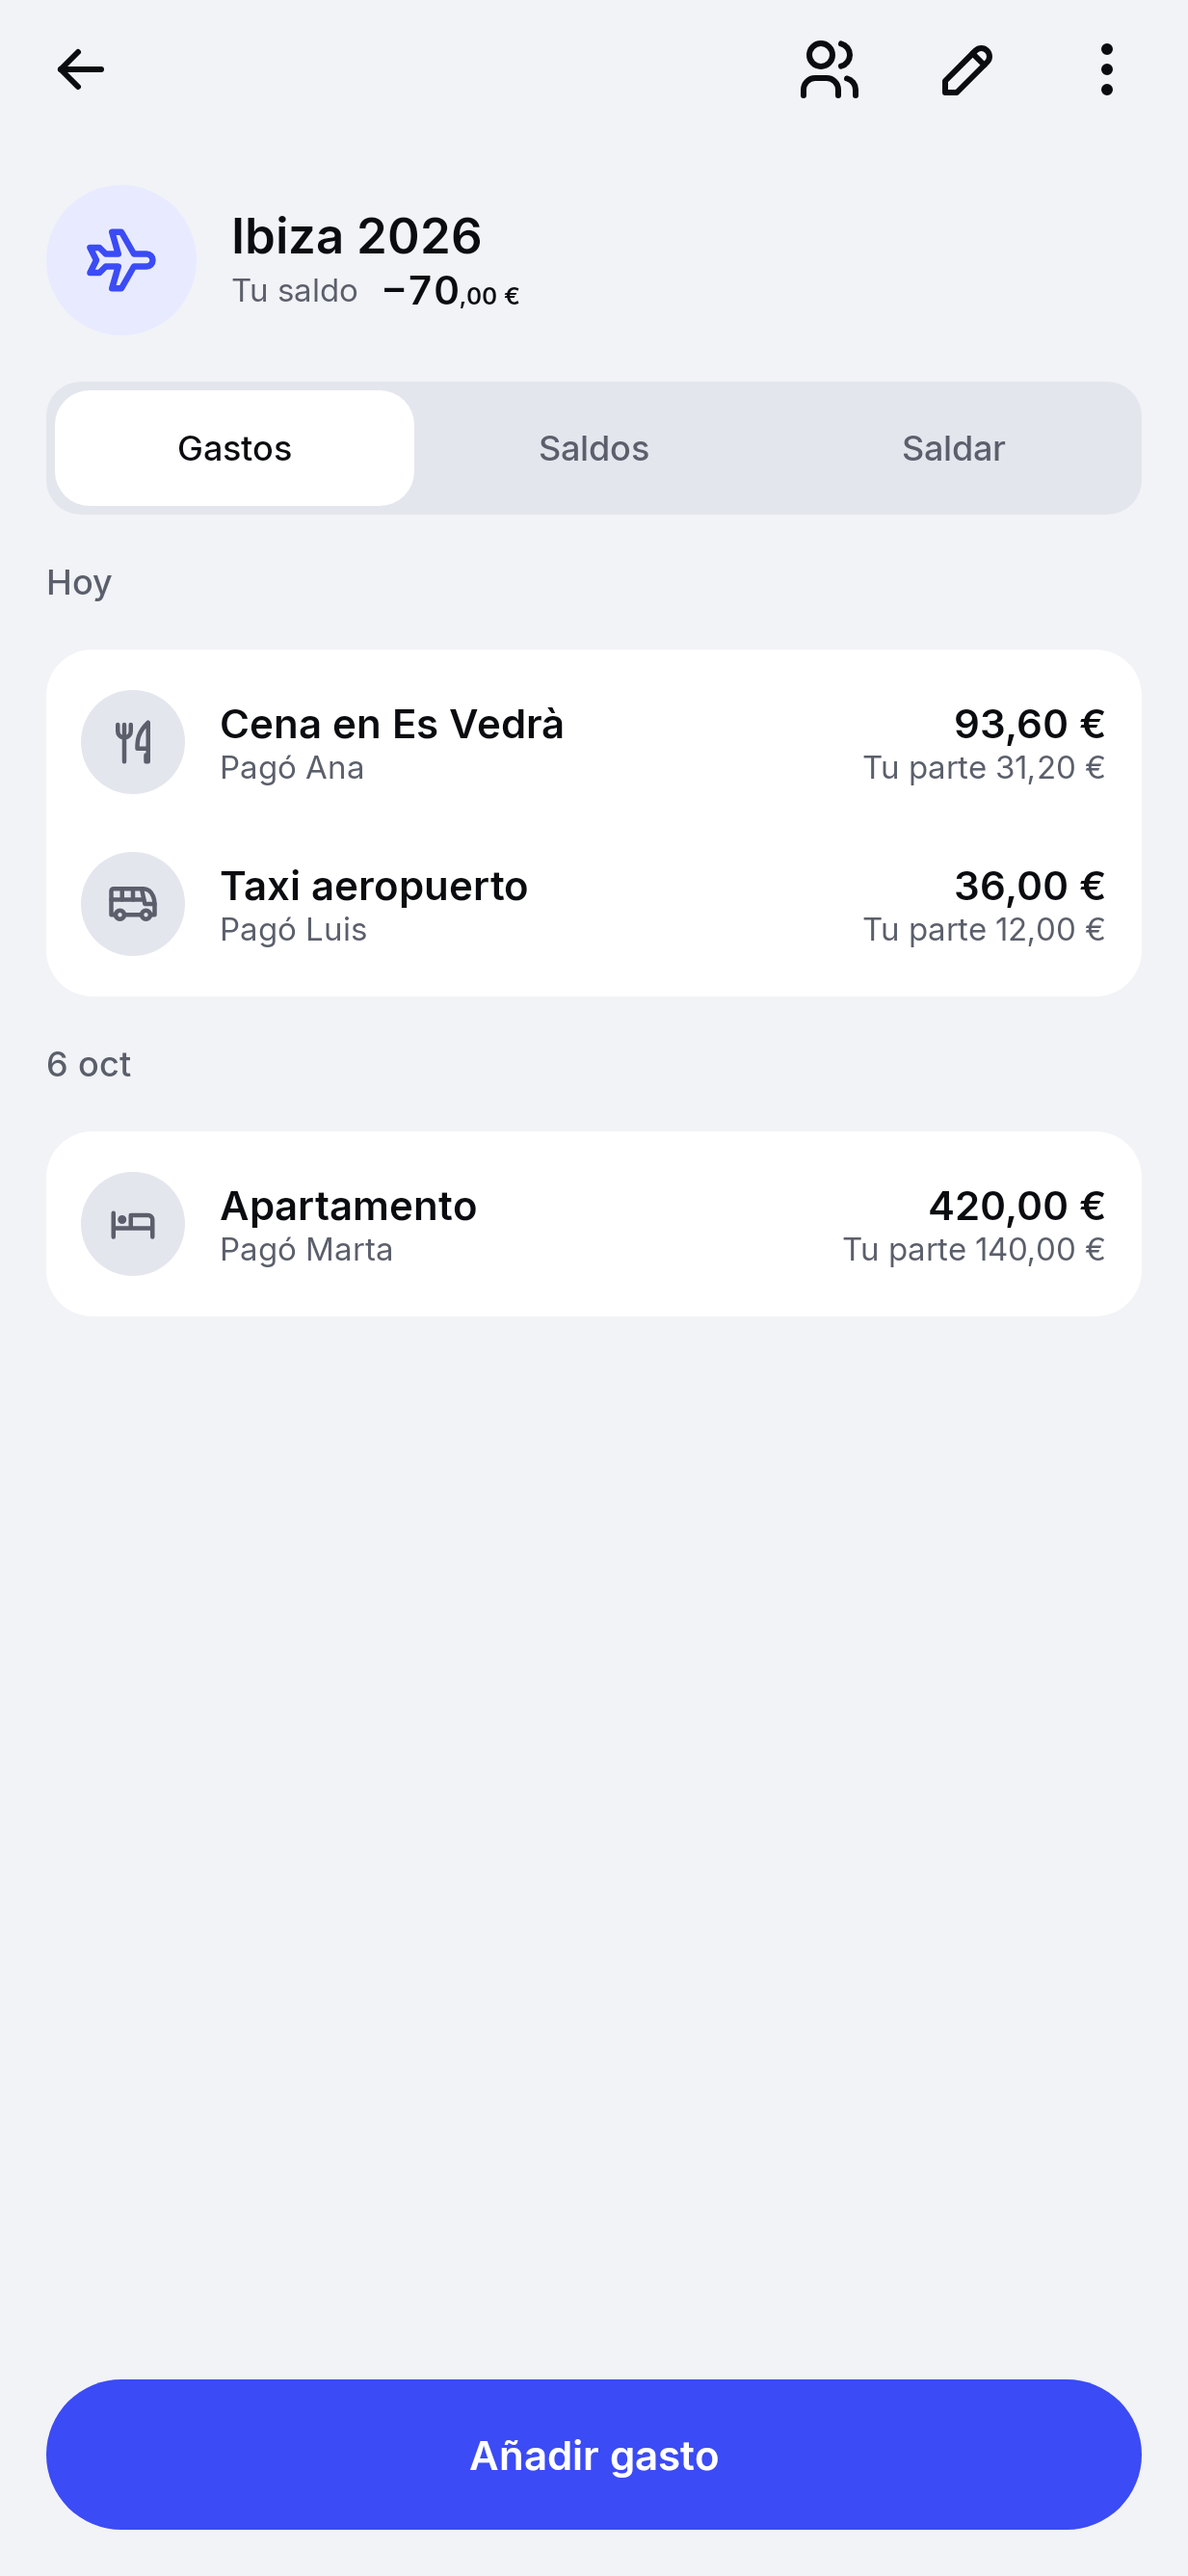
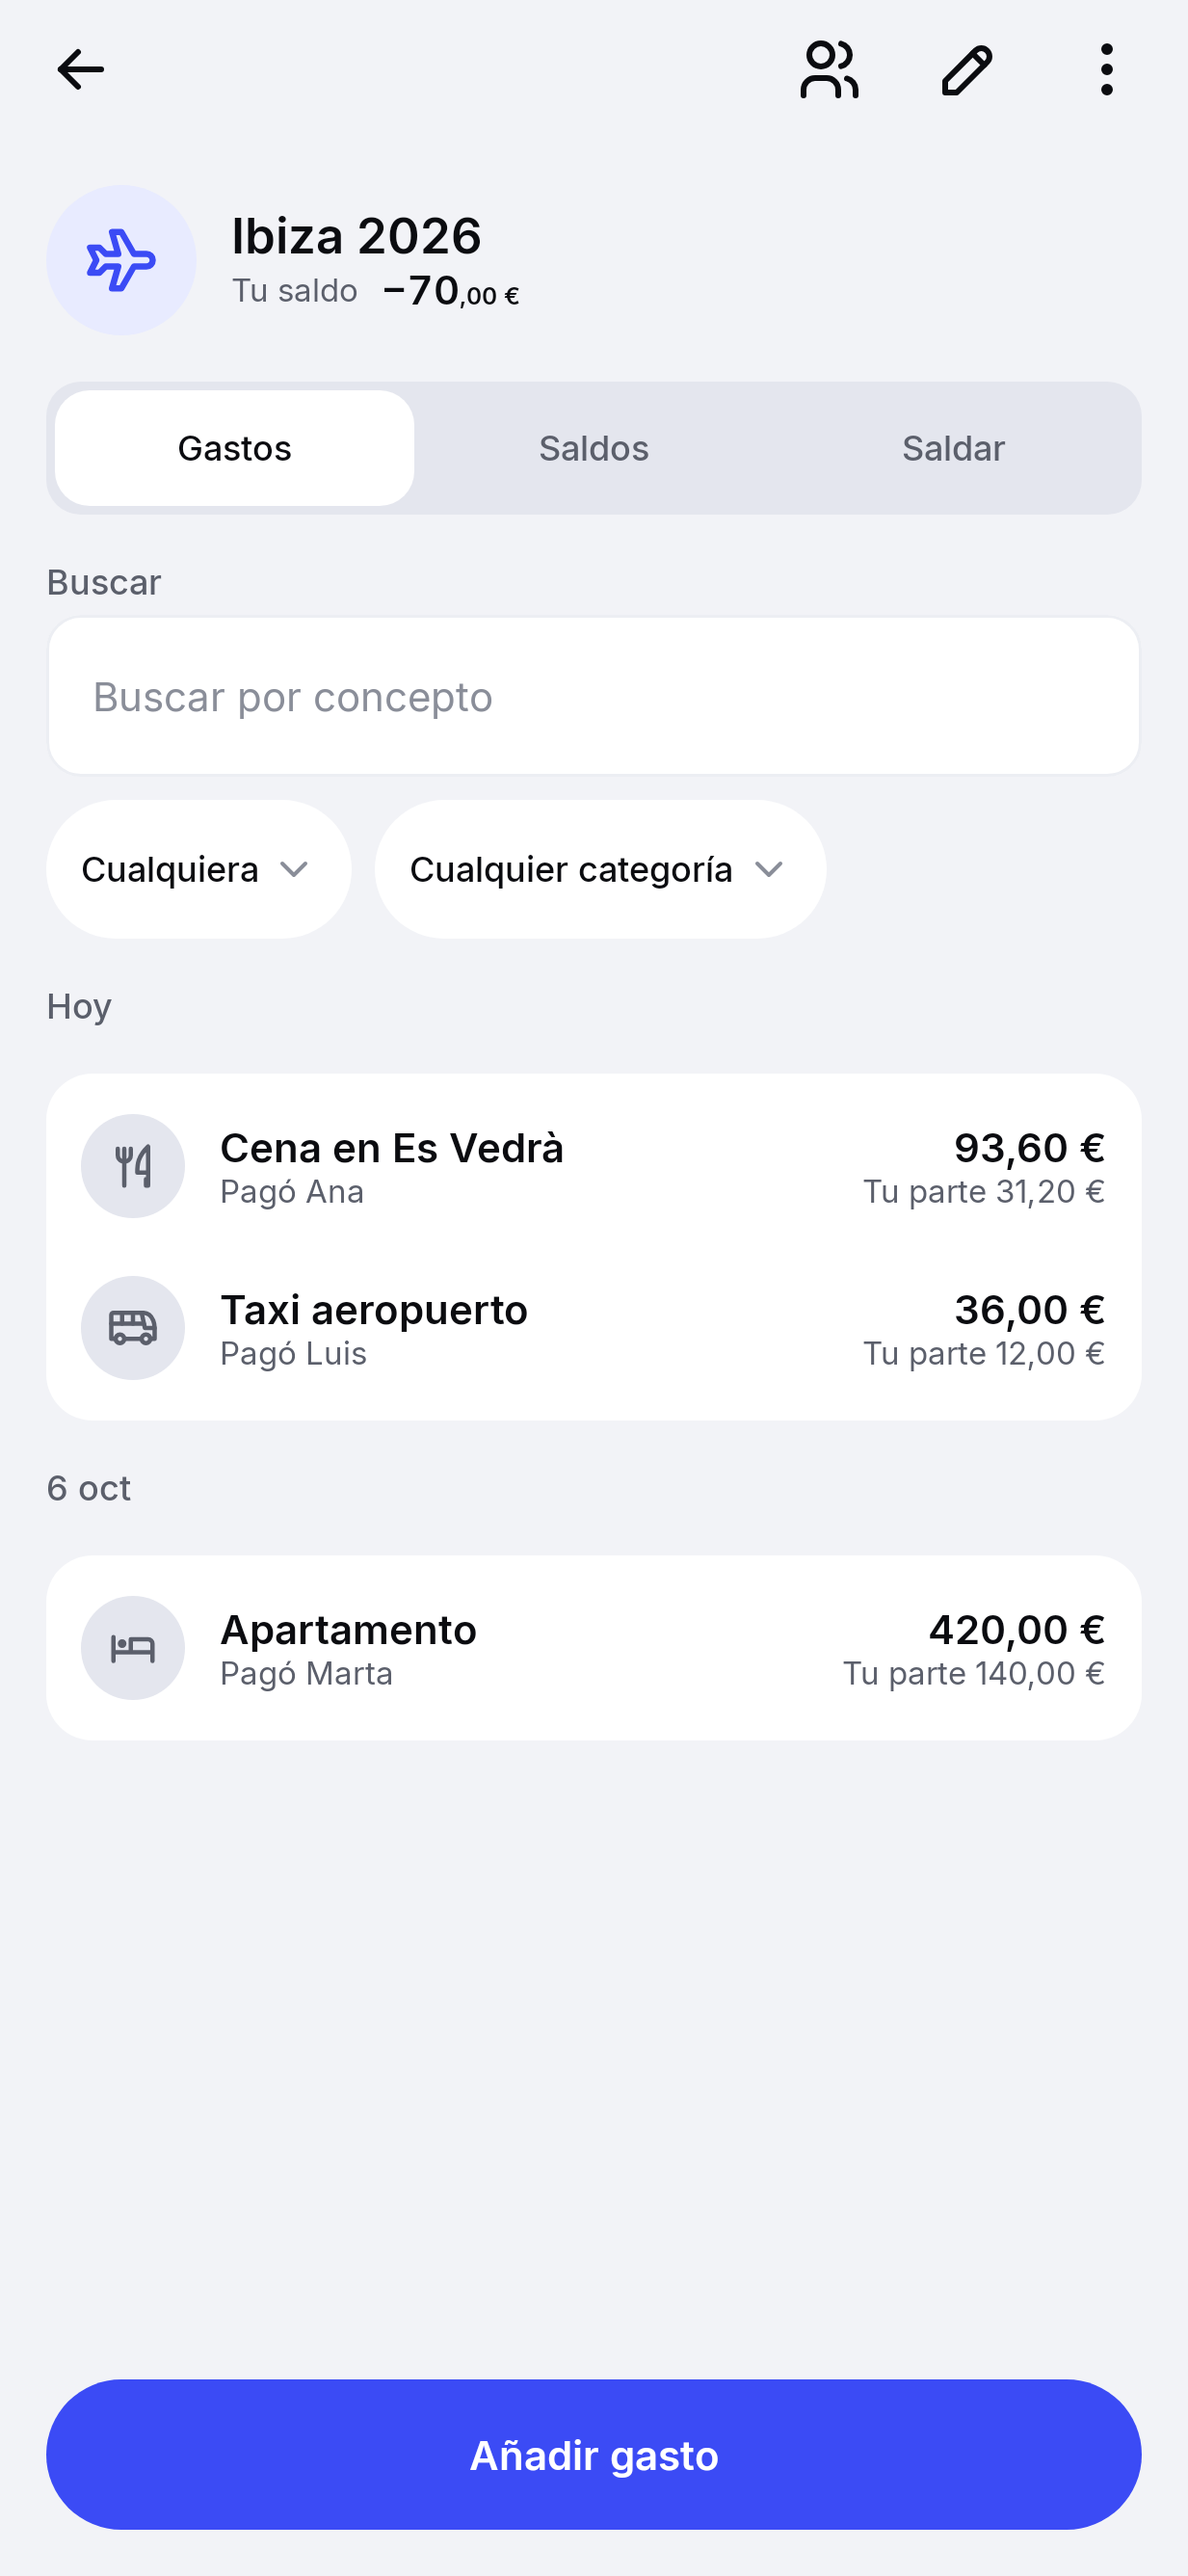
feat(groups): search and filters in the expense list; shares shown in each expense's currency

diff --git a/feature/groups/src/commonMain/kotlin/es/sebas1705/owlsplit/feature/groups/detail/ExpenseFilters.kt b/feature/groups/src/commonMain/kotlin/es/sebas1705/owlsplit/feature/groups/detail/ExpenseFilters.kt
@@ -1,0 +1,108 @@
+package es.sebas1705.owlsplit.feature.groups.detail
+
+import androidx.compose.foundation.background
+import androidx.compose.foundation.clickable
+import androidx.compose.foundation.layout.Arrangement
+import androidx.compose.foundation.layout.Box
+import androidx.compose.foundation.layout.Column
+import androidx.compose.foundation.layout.Row
+import androidx.compose.foundation.layout.heightIn
+import androidx.compose.foundation.layout.padding
+import androidx.compose.foundation.layout.size
+import androidx.compose.material3.DropdownMenu
+import androidx.compose.material3.DropdownMenuItem
+import androidx.compose.material3.Icon
+import androidx.compose.material3.Text
+import androidx.compose.runtime.Composable
+import androidx.compose.runtime.getValue
+import androidx.compose.runtime.mutableStateOf
+import androidx.compose.runtime.remember
+import androidx.compose.runtime.setValue
+import androidx.compose.ui.Alignment
+import androidx.compose.ui.Modifier
+import androidx.compose.ui.semantics.Role
+import androidx.compose.ui.unit.dp
+import compose.icons.TablerIcons
+import compose.icons.tablericons.ChevronDown
+import es.sebas1705.owlsplit.core.ui.components.OwlsplitTextField
+import es.sebas1705.owlsplit.core.ui.components.TextActionButton
+import es.sebas1705.owlsplit.core.ui.theme.Owlsplit
+import es.sebas1705.owlsplit.core.ui.theme.OwlsplitShapes
+import es.sebas1705.owlsplit.core.ui.theme.Sizes
+import es.sebas1705.owlsplit.core.ui.theme.Spacing
+import es.sebas1705.owlsplit.core.ui.theme.categoryName
+import es.sebas1705.owlsplit.data.models.ExpenseCategory
+import es.sebas1705.owlsplit.domain.usecases.groups.GroupDetail
+import es.sebas1705.owlsplit.domain.usecases.groups.nameOf
+import es.sebas1705.owlsplit.feature.groups.resources.Res
+import es.sebas1705.owlsplit.feature.groups.resources.clear_filters
+import es.sebas1705.owlsplit.feature.groups.resources.filter_any_category
+import es.sebas1705.owlsplit.feature.groups.resources.filter_anyone
+import es.sebas1705.owlsplit.feature.groups.resources.search_label
+import es.sebas1705.owlsplit.feature.groups.resources.search_placeholder
+import org.jetbrains.compose.resources.stringResource
+
+/** Search by title, and filter by person and category (decision 1 of P9c). */
+@Composable
+internal fun ExpenseFilters(state: GroupState, detail: GroupDetail, onEvent: (GroupIntent) -> Unit) {
+    val filter = state.filter
+    Column(verticalArrangement = Arrangement.spacedBy(Spacing.s)) {
+        OwlsplitTextField(
+            value = filter.query,
+            onValueChange = { onEvent(GroupIntent.Search(it)) },
+            label = stringResource(Res.string.search_label),
+            placeholder = stringResource(Res.string.search_placeholder),
+        )
+        Row(horizontalArrangement = Arrangement.spacedBy(Spacing.s), verticalAlignment = Alignment.CenterVertically) {
+            val anyone = stringResource(Res.string.filter_anyone)
+            Chip(
+                label = filter.memberId?.let { detail.members.nameOf(it) } ?: anyone,
+                selected = filter.memberId != null,
+                options = listOf<Pair<String?, String>>(null to anyone) + detail.members.map { it.id to it.name },
+                onSelect = { onEvent(GroupIntent.FilterMember(it)) },
+            )
+            val anyCategory = stringResource(Res.string.filter_any_category)
+            Chip(
+                label = filter.category?.let { categoryName(it.name) } ?: anyCategory,
+                selected = filter.category != null,
+                options = listOf<Pair<ExpenseCategory?, String>>(null to anyCategory) +
+                    ExpenseCategory.entries.map { it to categoryName(it.name) },
+                onSelect = { onEvent(GroupIntent.FilterCategory(it)) },
+            )
+        }
+        if (filter.active) {
+            TextActionButton(stringResource(Res.string.clear_filters), { onEvent(GroupIntent.ClearFilters) })
+        }
+    }
+}
+
+@Composable
+private fun <T> Chip(label: String, selected: Boolean, options: List<Pair<T, String>>, onSelect: (T) -> Unit) {
+    var open by remember { mutableStateOf(false) }
+    val colors = Owlsplit.colors
+    Box {
+        Row(
+            Modifier
+                .heightIn(min = Sizes.touchTarget)
+                .background(if (selected) colors.accentContainer else colors.surface, OwlsplitShapes.pill)
+                .clickable(role = Role.DropdownList) { open = true }
+                .padding(horizontal = Spacing.m),
+            verticalAlignment = Alignment.CenterVertically,
+            horizontalArrangement = Arrangement.spacedBy(Spacing.xs),
+        ) {
+            Text(label, style = Owlsplit.type.label, color = if (selected) colors.accentText else colors.textPrimary)
+            Icon(TablerIcons.ChevronDown, null, tint = colors.textMuted, modifier = Modifier.size(16.dp))
+        }
+        DropdownMenu(expanded = open, onDismissRequest = { open = false }) {
+            options.forEach { (value, text) ->
+                DropdownMenuItem(
+                    text = { Text(text, style = Owlsplit.type.body) },
+                    onClick = {
+                        open = false
+                        onSelect(value)
+                    },
+                )
+            }
+        }
+    }
+}

diff --git a/feature/groups/src/commonMain/kotlin/es/sebas1705/owlsplit/feature/groups/detail/GroupScreen.kt b/feature/groups/src/commonMain/kotlin/es/sebas1705/owlsplit/feature/groups/detail/GroupScreen.kt
@@ -73,6 +73,7 @@ import es.sebas1705.owlsplit.feature.groups.resources.members
 import es.sebas1705.owlsplit.feature.groups.resources.more
 import es.sebas1705.owlsplit.feature.groups.resources.no_expenses_body
 import es.sebas1705.owlsplit.feature.groups.resources.no_expenses_title
+import es.sebas1705.owlsplit.feature.groups.resources.no_match
 import es.sebas1705.owlsplit.feature.groups.resources.paid_by
 import es.sebas1705.owlsplit.feature.groups.resources.record_payment
 import es.sebas1705.owlsplit.feature.groups.resources.settle
@@ -137,7 +138,7 @@ fun GroupScreen(
                 )
             }
             when (state.tab) {
-                GroupTab.EXPENSES -> expenses(state, detail, currency, format, today, navigation.openExpense)
+                GroupTab.EXPENSES -> expenses(state, detail, format, today, onEvent, navigation.openExpense)
                 GroupTab.BALANCES -> item { Balances(detail, currency, format) }
                 GroupTab.SETTLE -> settle(detail, currency, format, today, onEvent, navigation.recordPayment)
             }
@@ -226,39 +227,42 @@ private fun Header(detail: GroupDetail, currency: Currency, format: MoneyFormat)
 private fun LazyListScope.expenses(
     state: GroupState,
     detail: GroupDetail,
-    currency: Currency,
     format: MoneyFormat,
     today: LocalDate,
+    onEvent: (GroupIntent) -> Unit,
     onOpen: (String) -> Unit,
 ) {
     if (detail.expenses.isEmpty()) {
         item { EmptyState(stringResource(Res.string.no_expenses_title), stringResource(Res.string.no_expenses_body)) }
         return
     }
-    detail.expenses.groupBy { it.date }.forEach { (date, dayExpenses) ->
+    item(key = "filters") { ExpenseFilters(state, detail, onEvent) }
+    val visible = state.visibleExpenses
+    if (visible.isEmpty()) {
+        item(key = "no-match") {
+            Text(stringResource(Res.string.no_match), style = Owlsplit.type.body, color = Owlsplit.colors.textSecondary)
+        }
+    }
+    visible.groupBy { it.date }.forEach { (date, dayExpenses) ->
         item(key = "day-$date") {
             Text(dayLabel(date, today), style = Owlsplit.type.label, color = Owlsplit.colors.textSecondary)
         }
         item(key = "list-$date") {
             OwlsplitContainer {
                 dayExpenses.forEach { expense ->
-                    val payer = expense.payers.keys.firstOrNull()?.let { detail.members.nameOf(it) }.orEmpty()
+                    // Shares are in the expense's own currency.
+                    val currency = Currency.of(expense.currency)
+                    val payers = expense.payers.keys.joinToString(", ") { detail.members.nameOf(it) }
                     val share = state.myShares[expense.id] ?: 0
+                    val shareText = stringResource(Res.string.your_share, format.format(share, currency))
                     ExpenseRow(
                         title = expense.title,
-                        subtitle = stringResource(Res.string.paid_by, payer),
+                        subtitle = stringResource(Res.string.paid_by, payers),
                         icon = categoryIcon(expense.category.name),
                         amountMinor = expense.amountMinor,
-                        currency = Currency.of(expense.currency),
+                        currency = currency,
                         format = format,
-                        detail = if (share > 0) {
-                            stringResource(
-                                Res.string.your_share,
-                                format.format(share, currency)
-                            )
-                        } else {
-                            null
-                        },
+                        detail = shareText.takeIf { share > 0 },
                         onClick = { onOpen(expense.id) },
                     )
                 }

diff --git a/feature/groups/src/commonMain/kotlin/es/sebas1705/owlsplit/feature/groups/detail/GroupViewModel.kt b/feature/groups/src/commonMain/kotlin/es/sebas1705/owlsplit/feature/groups/detail/GroupViewModel.kt
@@ -4,7 +4,10 @@ import androidx.lifecycle.viewModelScope
 import es.sebas1705.owlsplit.core.common.mvi.MVIBaseIntent
 import es.sebas1705.owlsplit.core.common.mvi.MVIBaseState
 import es.sebas1705.owlsplit.core.common.mvi.MVIBaseViewModel
+import es.sebas1705.owlsplit.data.models.Expense
+import es.sebas1705.owlsplit.data.models.ExpenseCategory
 import es.sebas1705.owlsplit.domain.ledger.SuggestedPayment
+import es.sebas1705.owlsplit.domain.usecases.history.ExpenseFilter
 import es.sebas1705.owlsplit.domain.usecases.expenses.ExpenseDrafts
 import es.sebas1705.owlsplit.domain.usecases.groups.GroupActions
 import es.sebas1705.owlsplit.domain.usecases.groups.GroupDetail
@@ -21,14 +24,22 @@ data class GroupState(
     val tab: GroupTab = GroupTab.EXPENSES,
     /** My part of each expense (expense id → minor units), for the list. */
     val myShares: Map<String, Long> = emptyMap(),
+    val filter: ExpenseFilter = ExpenseFilter(),
     val confirmSettle: SuggestedPayment? = null,
     val confirmLeave: Boolean = false,
     /** The group is no longer here (left, or gone): the screen closes. */
     val closed: Boolean = false,
-) : MVIBaseState
+) : MVIBaseState {
+    /** The expenses list after search and filters. */
+    val visibleExpenses: List<Expense> get() = detail?.expenses?.let(filter::apply).orEmpty()
+}
 
 sealed interface GroupIntent : MVIBaseIntent {
     data class SelectTab(val tab: GroupTab) : GroupIntent
+    data class Search(val query: String) : GroupIntent
+    data class FilterMember(val memberId: String?) : GroupIntent
+    data class FilterCategory(val category: ExpenseCategory?) : GroupIntent
+    data object ClearFilters : GroupIntent
     data class AskSettle(val payment: SuggestedPayment) : GroupIntent
     data object ConfirmSettle : GroupIntent
     data object ToggleArchive : GroupIntent
@@ -74,6 +85,18 @@ class GroupViewModel(
     override fun intentHandler(intent: GroupIntent): Job = execute {
         when (intent) {
             is GroupIntent.SelectTab -> updateState { it.copy(tab = intent.tab) }
+            is GroupIntent.Search -> updateState {
+                it.copy(
+                    filter = it.filter.copy(query = intent.query.take(MAX_QUERY))
+                )
+            }
+            is GroupIntent.FilterMember -> updateState { it.copy(filter = it.filter.copy(memberId = intent.memberId)) }
+            is GroupIntent.FilterCategory -> updateState {
+                it.copy(
+                    filter = it.filter.copy(category = intent.category)
+                )
+            }
+            GroupIntent.ClearFilters -> updateState { it.copy(filter = ExpenseFilter()) }
             is GroupIntent.AskSettle -> updateState { it.copy(confirmSettle = intent.payment) }
             GroupIntent.ConfirmSettle -> settle()
             GroupIntent.ToggleArchive -> currentState.detail?.let { actions.setArchived(groupId, !it.archivedByMe) }
@@ -93,3 +116,5 @@ class GroupViewModel(
         settleUp(groupId, payment, currency)
     }
 }
+
+private const val MAX_QUERY = 80

diff --git a/feature/groups/src/commonTest/kotlin/es/sebas1705/owlsplit/feature/groups/GroupsViewModelsTest.kt b/feature/groups/src/commonTest/kotlin/es/sebas1705/owlsplit/feature/groups/GroupsViewModelsTest.kt
@@ -5,6 +5,7 @@ import es.sebas1705.owlsplit.core.testing.account.FakeAccounts
 import es.sebas1705.owlsplit.core.testing.account.FakeProfiles
 import es.sebas1705.owlsplit.core.testing.ledger.InMemoryLedger
 import es.sebas1705.owlsplit.core.ui.theme.GroupAccent
+import es.sebas1705.owlsplit.data.models.ExpenseCategory
 import es.sebas1705.owlsplit.data.models.GroupInput
 import es.sebas1705.owlsplit.data.models.UserProfile
 import es.sebas1705.owlsplit.domain.usecases.account.ObserveAccount
@@ -180,5 +181,21 @@ class GroupsViewModelsTest {
         vm.onEvent(TransferIntent.Save)
         assertTrue(vm.uiState.value.done)
         assertEquals(1_250L, ledger.transferList.value.single().amountMinor)
+    }
+
+    @Test
+    fun searchAndFiltersNarrowTheList() = runTest {
+        val g = dinnerGroup()
+        val vm = GroupViewModel(g, GroupTab.EXPENSES, detail, SettleUp(ledger.transfers), actions)
+        vm.onEvent(GroupIntent.Search("cena"))
+        assertEquals(1, vm.uiState.value.visibleExpenses.size)
+        vm.onEvent(GroupIntent.Search("taxi"))
+        assertTrue(vm.uiState.value.visibleExpenses.isEmpty())
+        vm.onEvent(GroupIntent.ClearFilters)
+        vm.onEvent(GroupIntent.FilterCategory(ExpenseCategory.FOOD))
+        assertTrue(vm.uiState.value.visibleExpenses.isEmpty()) // the dinner was saved as OTHER
+        vm.onEvent(GroupIntent.ClearFilters)
+        assertFalse(vm.uiState.value.filter.active)
+        assertEquals(1, vm.uiState.value.visibleExpenses.size)
     }
 }
